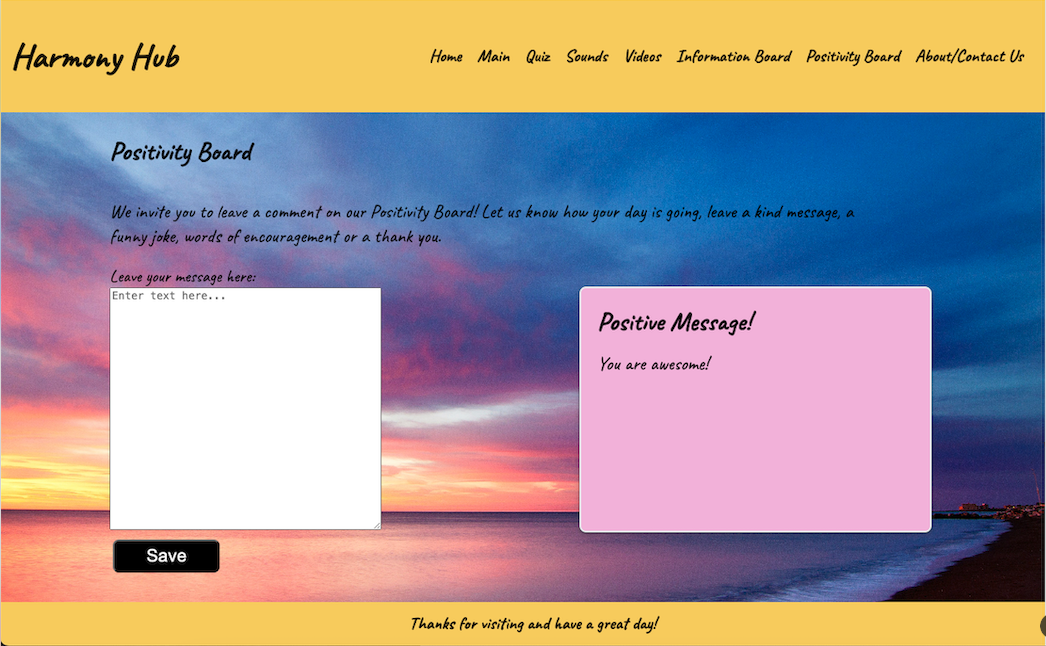
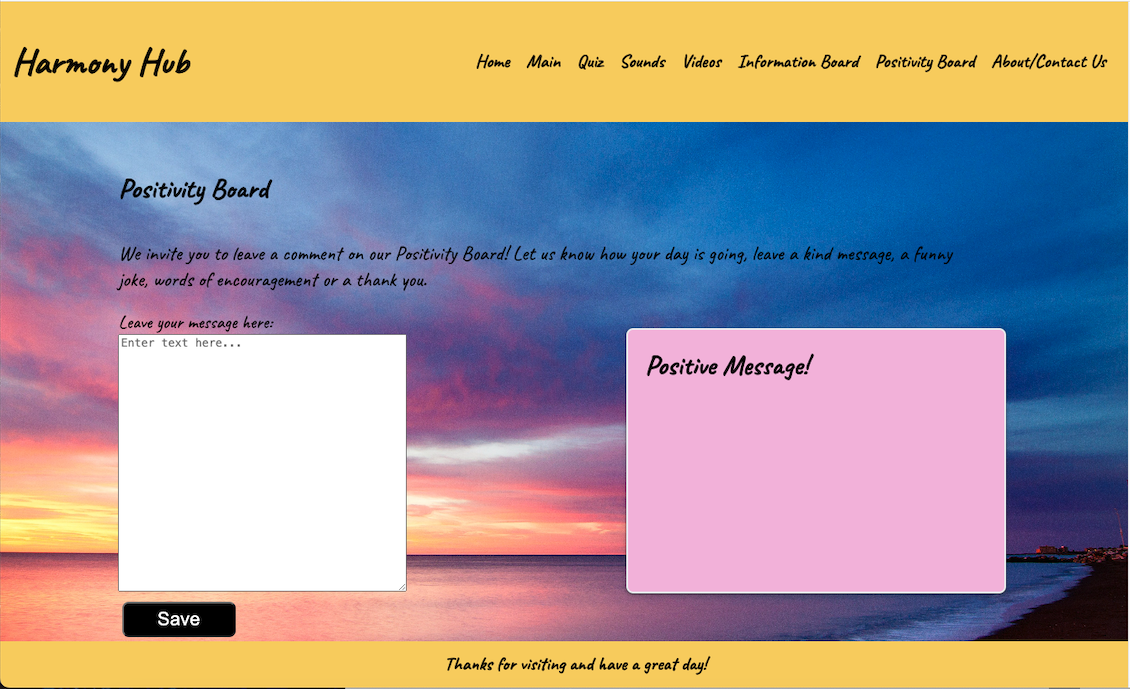
media query work and README screenshot added

diff --git a/assets/positive.css b/assets/positive.css
@@ -156,7 +156,11 @@ footer {
 
 /* Media query added to accomodate different screen sizes */
 @media screen and (max-width: 992px) {
-    header,
+    header {
+        margin-top: 0;
+        margin-left: 0;
+    }
+
     main,
     h2 {
       flex-direction: column;
@@ -177,11 +181,6 @@ footer {
       margin-left: 10px;
     }
 
-    /* h2 {
-        font-size: medium; 
-        width: 90%;
-        } */
-
     button {
         font-size: 1em;
     } 
@@ -193,14 +192,17 @@ footer {
 
 @media screen and (max-width: 768px) {
     header {
+      /* position: fixed; */
       flex-direction: column;
+      margin-top: 0;
+      margin-left: 0;
     }
-    main {
+    /* main {
       flex-direction: column;
       font-size: smaller;
       width: 100%;
       padding: 10px;
-    }
+    } */
   
     section {
       padding-right: 0;
@@ -208,15 +210,15 @@ footer {
       width: 100%;
       text-align: center;
       padding: 10;
-      padding-top: 10px;
+      padding-top: 12px;
     }
 
     h2 {
-        /* font-size: smaller; */
+        /* font-size: smaller;*/
         width: 90%;
         padding: 10px;
         padding-top: 10px;
-    }
+    } 
 
     button {
         font-size: 1em;
@@ -235,6 +237,7 @@ footer {
     header {
         flex-direction: column;
     }
+
     main {
       flex-direction: column;
       font-size: smaller;
@@ -256,8 +259,7 @@ footer {
       flex-direction: column;
       width: 100%;
       margin-top: 10px;
-        margin-left: 10px;
-    /* margin-bottom: 20px; */
+      margin-left: 10px;
     }
 
     button {

diff --git a/README.md b/README.md
@@ -63,9 +63,9 @@ Harmoney-Hub: A feel-good wellness application!
 - On the about us and Contact page the user will see blurbs about each developer and their contact information.
 
 
-- ![Screenshot of the main page open in browser](./images/screenshot-1.png)
+- ![Screenshot of the home page open in browser](./images/screenshot-1.png)
 
-- ![Screenshot of the home page open in browser](./images/screenshot-2.png)
+- ![Screenshot of the main page open in browser](./images/screenshot-2.png)
 
 - ![Screenshot of the main page open in browser]()
 
@@ -77,6 +77,8 @@ Harmoney-Hub: A feel-good wellness application!
 
 - ![Screenshot of the positivity page open in browser](./images/screenshot-6.png)
 
+- ![Screenshot of the main page open in browser](./images/screenshot-7.png)
+
 - ![Screenshot of the main page open in browser]()
 
 - [x][y]
@@ -84,6 +86,8 @@ Harmoney-Hub: A feel-good wellness application!
 # Credits
 
 Al, Q. (2017). Body of Water and Seashore [Photograph]. Unsplash. https://unsplash.com/photos/body-of-water-and-seashore-JFeOy62yjXk
+
+Create a Mobile Toggle Navigation Menu Using HTML, CSS and JavaScript. (2023, May 22). Geeks for Geeks. Retrieved February 20, 2024, from https://www.geeksforgeeks.org/create-a-mobile-toggle-navigation-menu-using-html-css-and-javascript/?ref=header_search
 
 Fitzgerald, A. (2022, June 17). How to Make an HTML Text Box [Examples]. Hubspot. https://blog.hubspot.com/website/html-text-box
 
